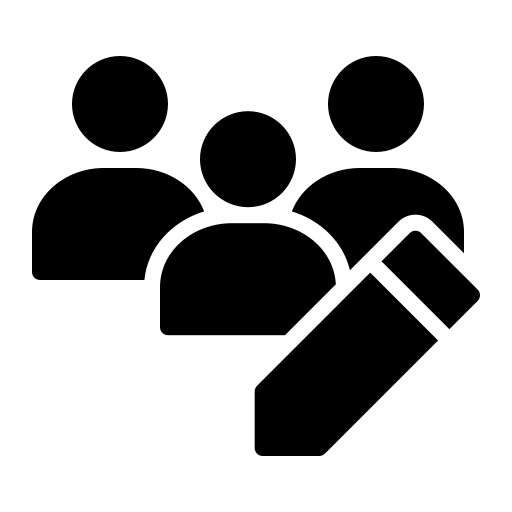
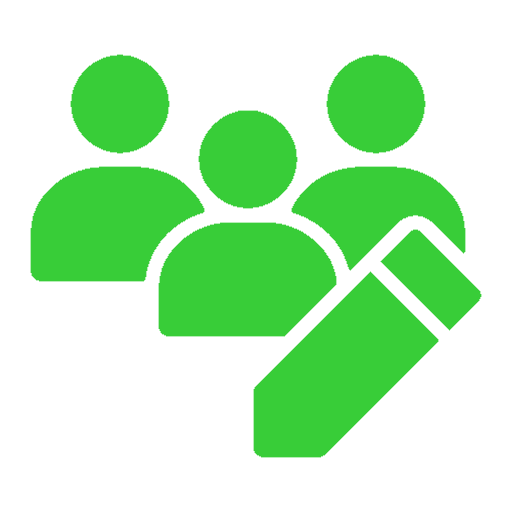
d

diff --git a/src/components/PromotionalTextData/PromotionalTextData.jsx b/src/components/PromotionalTextData/PromotionalTextData.jsx
@@ -1,0 +1,47 @@
+import axios from 'axios';
+import React, { useEffect, useState } from 'react'
+import AdminHeader from '../AdminHome/AdminHeader.tsx';
+import AdminFooter from '../AdminHome/AdminFooter';
+
+const PromotionalTextData = () => {
+    const [list, setList] = useState(null);
+    useEffect(() => {
+        axios.post('http://localhost:8085/kingsman/PromotionalTextData', 
+        null,
+      { withCredentials: true,
+        headers: {'Content-type': 'application/json'},
+       
+      })
+        .then(response => {
+          setList(response.data);
+          console.log(response.data);
+        })
+        .catch(error => {
+          console.error('Error searching users:', error);
+        });
+      }, []);
+    
+  return (
+    <div>
+       <AdminHeader />
+        <div className="message-container">
+            {list && list.map((item, index) => (
+                 <div className='chatRoom' key={index}>
+                 {index === 0 || item.pr_DATE.slice(0,10) !== list[index - 1].pr_DATE.slice(0,10) ? (
+                   <p>{item.pr_DATE.slice(0,10)}</p>
+                 ) : null}
+                    <div className='message'>
+                        <div className='balloon2'>{item.pr_QUESTION}</div>
+                        <div><p>{item.pr_DATE.slice(11,16)}</p></div>
+                        <div className='balloon'>{item.pr_TEXT}</div>
+                        <div><p>{item.pr_DATE.slice(11,16)}</p></div>
+                    </div>
+                </div>
+            ))}
+        </div>
+        <AdminFooter />
+    </div>
+  )
+}
+
+export default PromotionalTextData

diff --git a/src/App.js b/src/App.js
@@ -7,6 +7,7 @@ import AllActivitiLog from './components/AllActivityLog/AllActivitiLog';
 import Dashboard from './components/Dashboard/Dashboard';
 import AdminTowelCount from './components/AdminTowelCount/AdminTowelCount';
 import PromotionalText from './components/PromotinalText/PromotionalText';
+import PromotionalTextData from './components/PromotionalTextData/PromotionalTextData';
 import UserManagement from './components/UserManagement/UserManagement';
 import UserModify from './components/UserManagement/UserModify';
 import AdminModifyProfile from './components/AdminModifyProfile/AdminModifyProfile';
@@ -48,6 +49,7 @@ function App() {
             <Route path='/Dashboard' element={<Dashboard></Dashboard>}></Route>
             <Route path='/AdminTowelCount' element={<AdminTowelCount></AdminTowelCount>}></Route>
             <Route path='/PromotionalText' element={<PromotionalText></PromotionalText>}></Route>
+            <Route path='/PromotionalTextData' element={<PromotionalTextData></PromotionalTextData>}></Route>
             <Route path='/ScheduleManagement' element={<ScheduleManagement></ScheduleManagement>}></Route>
             <Route path='/UserManagement' element={<UserManagement></UserManagement>}></Route>
             <Route path='/UserModify' element={<UserModify></UserModify>}></Route>

diff --git a/src/App.css b/src/App.css
@@ -191,7 +191,7 @@
   color: gray;
 }
 .AdminFooter .black{
-  color: black;
+  color: rgba(50,205,50);
 }
 
 
@@ -604,41 +604,40 @@
 
 /* ///////////////////////////////////////////////////////// */
 /* 관리자 - 일정관리 페이지 !!!! */
-.adminHeader{
-  background-color: limegreen;
-  height: 64px;
+.message p {
+  font-size: 12px;
+}
+.message div:nth-child(2) {
+  margin-left: 20%;
+}
+.message div:nth-child(4) {
+  margin-left: 70%;
 }
 
-.calendarContainer{
-  height: 330px;
+.balloon {
+  background-color: #6495ed;
+  padding: 10px;
+  border-radius: 10px;
+  margin-bottom: 5px;
+  width: 80%;
 }
 
-.searchScheduleContainer{
-  /* background-color: skyblue; */
-  height: 182px;
+.balloon2 {
+  background-color: #5cdb95;
+  padding: 10px;
+  border-radius: 10px;
+  margin-bottom: 5px;
+  margin-left: 20%;
+  width: 80%;
 }
 
-.adminFooter{
-  background-color: black;
-  height: 64px;
+.chatRoom {
+  margin-top: 20px;
+  background-color: #ADD8E6;
+  height: 500px;
+  color: white;
 }
-
-.AdminHeaderContainer{
-  height: 64px;
-}
-
-.loginButton {
-  width: 200px;
-  height: 40px;
-}
-
-.loginLogoContainer{
-  height: 270px;
-}
-
-.snsLoginButtons{
-  display: flex;
-  justify-content: center;
+.chatRoom>p {
+  padding-top: 10px;
   text-align: center;
-  align-items: center;
 }

diff --git a/src/components/UserManagement/SearchUser.jsx b/src/components/UserManagement/SearchUser.jsx
@@ -2,7 +2,7 @@ import React, { useState } from 'react';
 
 const SearchUser = ({ onSearch }) => {
     const [searchQuery, setSearchQuery] = useState('');
-    const [selectedCategory, setSelectedCategory] = useState('*');
+    const [selectedCategory, setSelectedCategory] = useState('b_name');
   
     const handleInputChange = (e) => {
       setSearchQuery(e.target.value);
@@ -16,6 +16,12 @@ const SearchUser = ({ onSearch }) => {
       onSearch(searchQuery, selectedCategory);
     };
 
+    const handleKeyDown = (event) => {
+      if (event.key === 'Enter') {
+        onSearch(searchQuery, selectedCategory);
+      }
+    };
+    
   return (
     <div className='SearchUser'>
      <select onChange={handleCategoryChange} value={selectedCategory}>
@@ -24,7 +30,7 @@ const SearchUser = ({ onSearch }) => {
         <option value="b_deps">부서</option>
         
       </select>
-      <input type="text" value={searchQuery} onChange={handleInputChange} />
+      <input type="text" value={searchQuery} onChange={handleInputChange} onKeyDown={handleKeyDown} />
       <button onClick={handleSearch}>검색</button>
     </div>
   );

diff --git a/src/components/AdminHome/AdminFooter.jsx b/src/components/AdminHome/AdminFooter.jsx
@@ -28,7 +28,7 @@ const AdminFooter = () => {
           <p className= {currentPath === '/Dashboard'? 'black':'gray'}>대시보드</p>
         </div>
         <div onClick={()=>{nav('/PromotionalText')}}>
-           {currentPath === '/PromotionalText'?
+           {(currentPath === '/PromotionalText'||currentPath === '/PromotionalTextData')?
           <img src= {promotionIcon}></img>:
           <img src= {promotionGrayIcon}></img>}
           <p className= {currentPath === '/PromotionalText'? 'black':'gray'}>홍보 문구</p>

diff --git a/src/components/UserManagement/UserInfo.jsx b/src/components/UserManagement/UserInfo.jsx
@@ -9,10 +9,12 @@ const UserInfo = ({ userList, setSelected}) => {
   const handleItemClick = (user) => {
     setSelectedUser(user);
   };
-
   const handleCloseInfo = () => {
       setSelectedUser(null);
 };
+useEffect(()=>{
+  handleCloseInfo();
+},[userList])
   return (
     <div className='UserInfo'>
       <h2>사용자 관리</h2>
